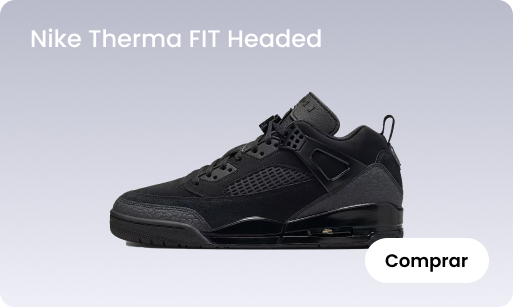
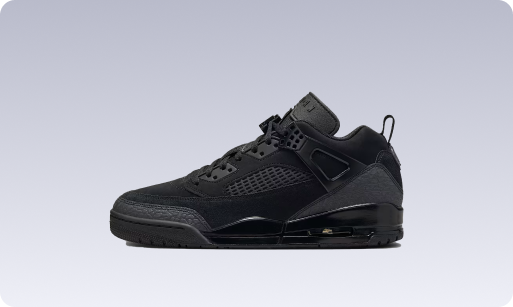
Implement code changes to enhance functionality and improve performance

Changed region(s): [[0.0624, 0.0879, 0.6238, 0.1759], [0.6862, 0.7622, 0.9669, 0.8795]]

diff --git a/src/components/common/promo-banners.tsx b/src/components/common/promo-banners.tsx
@@ -33,11 +33,11 @@ export default function PromoBanners() {
       <div className="grid gap-4 md:grid-cols-3 md:gap-6">
         <div className="flex flex-col gap-4 md:gap-6">
           <Tile title="Nike Therma FIT Headed" imageSrc="/banner-02-desk.png" />
-          <Tile title="Nike Therma FIT Headed" imageSrc="/banner-02-desk.png" />
+          <Tile title="Nike Therma FIT Headed" imageSrc="/banner-03-desk.png" />
         </div>
         <div className="relative h-[340px] overflow-hidden rounded-2xl border bg-white md:col-span-2 md:h-[638px]">
           <Image
-            src="/banner-03-desk.png"
+            src="/banner-04-desk.png"
             alt="Nike Therma FIT Headed"
             fill
             sizes="(max-width: 768px) 100vw, 66vw"
